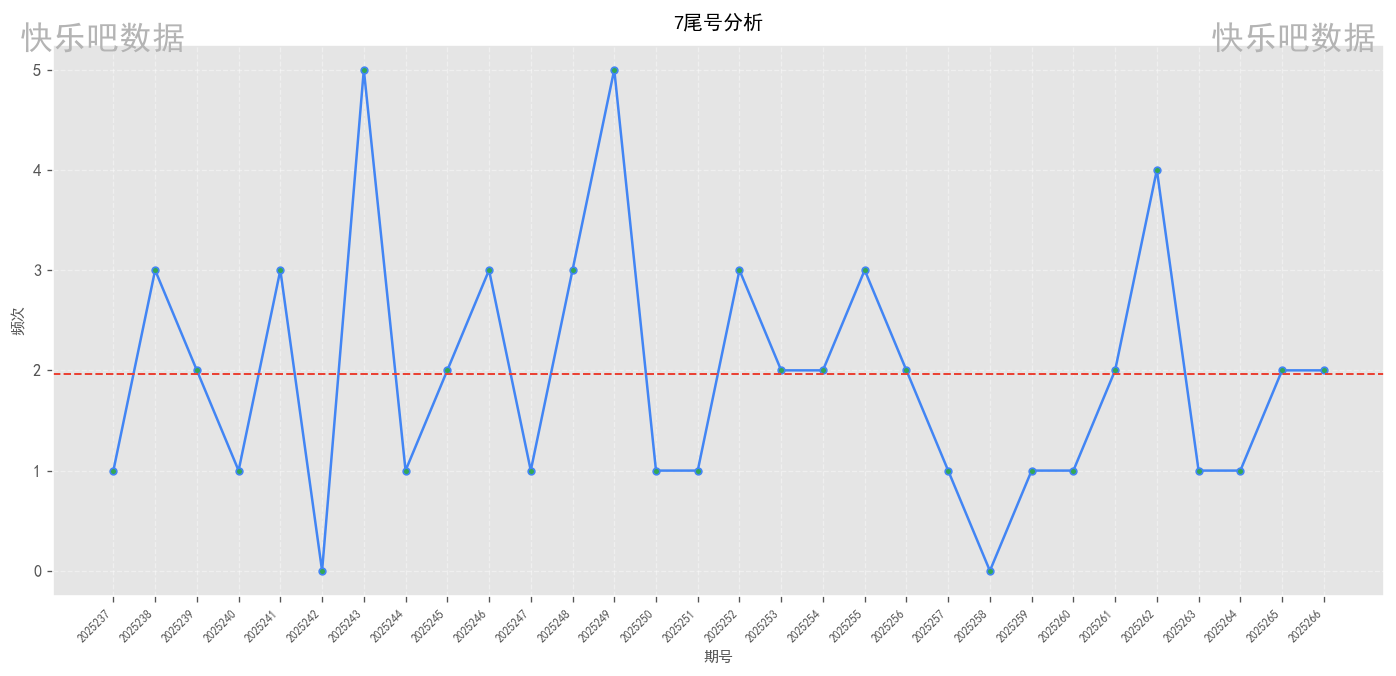
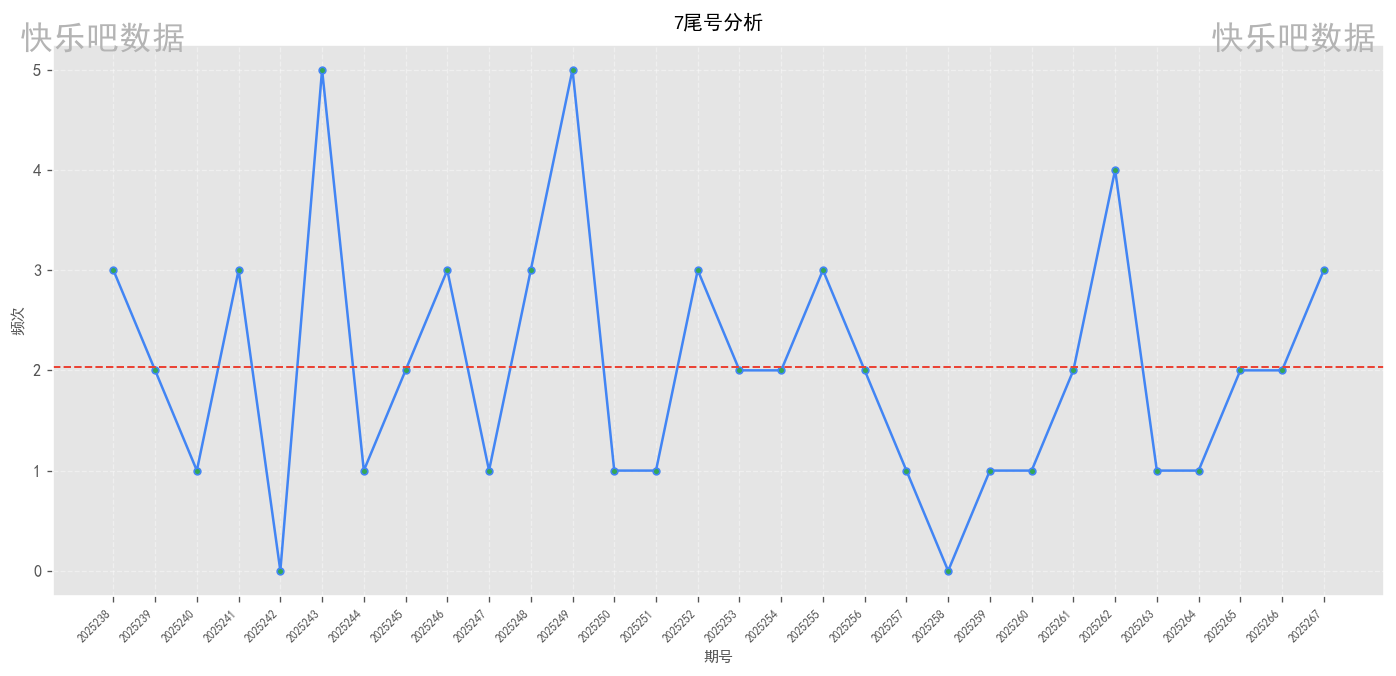
自动提交报告 20251008_2211

diff --git a/快乐8尾号分析项目/数据报告/20251008/report.html b/快乐8尾号分析项目/数据报告/20251008/report.html
@@ -440,7 +440,7 @@
                     <div class="label">尾号区间</div>
                 </div>
                 <div class="overview-card">
-                    <div class="value">2025266</div>
+                    <div class="value">2025267</div>
                     <div class="label">最新期号</div>
                 </div>
                 <div class="overview-card">
@@ -464,11 +464,11 @@
             <div class="stats-summary">
                 <div class="stat-item">
                     <span class="stat-label">历史平均</span>
-                    <span class="stat-value">2.10</span>
+                    <span class="stat-value">2.17</span>
                 </div>
                 <div class="stat-item">
                     <span class="stat-label">近期平均</span>
-                    <span class="stat-value">2.20</span>
+                    <span class="stat-value">2.00</span>
                 </div>
                 <div class="stat-item">
                     <span class="stat-label">最高频次</span>
@@ -490,7 +490,7 @@
                 </div>
                 <div class="stat-item">
                     <span class="stat-label">近期平均</span>
-                    <span class="stat-value">1.00</span>
+                    <span class="stat-value">1.20</span>
                 </div>
                 <div class="stat-item">
                     <span class="stat-label">最高频次</span>
@@ -508,7 +508,7 @@
             <div class="stats-summary">
                 <div class="stat-item">
                     <span class="stat-label">历史平均</span>
-                    <span class="stat-value">1.83</span>
+                    <span class="stat-value">1.77</span>
                 </div>
                 <div class="stat-item">
                     <span class="stat-label">近期平均</span>
@@ -530,7 +530,7 @@
             <div class="stats-summary">
                 <div class="stat-item">
                     <span class="stat-label">历史平均</span>
-                    <span class="stat-value">2.17</span>
+                    <span class="stat-value">2.03</span>
                 </div>
                 <div class="stat-item">
                     <span class="stat-label">近期平均</span>
@@ -552,11 +552,11 @@
             <div class="stats-summary">
                 <div class="stat-item">
                     <span class="stat-label">历史平均</span>
-                    <span class="stat-value">1.67</span>
+                    <span class="stat-value">1.70</span>
                 </div>
                 <div class="stat-item">
                     <span class="stat-label">近期平均</span>
-                    <span class="stat-value">2.80</span>
+                    <span class="stat-value">2.40</span>
                 </div>
                 <div class="stat-item">
                     <span class="stat-label">最高频次</span>
@@ -574,11 +574,11 @@
             <div class="stats-summary">
                 <div class="stat-item">
                     <span class="stat-label">历史平均</span>
-                    <span class="stat-value">2.47</span>
+                    <span class="stat-value">2.50</span>
                 </div>
                 <div class="stat-item">
                     <span class="stat-label">近期平均</span>
-                    <span class="stat-value">2.60</span>
+                    <span class="stat-value">3.20</span>
                 </div>
                 <div class="stat-item">
                     <span class="stat-label">最高频次</span>
@@ -596,11 +596,11 @@
             <div class="stats-summary">
                 <div class="stat-item">
                     <span class="stat-label">历史平均</span>
-                    <span class="stat-value">2.13</span>
+                    <span class="stat-value">2.03</span>
                 </div>
                 <div class="stat-item">
                     <span class="stat-label">近期平均</span>
-                    <span class="stat-value">1.60</span>
+                    <span class="stat-value">1.40</span>
                 </div>
                 <div class="stat-item">
                     <span class="stat-label">最高频次</span>
@@ -618,11 +618,11 @@
             <div class="stats-summary">
                 <div class="stat-item">
                     <span class="stat-label">历史平均</span>
-                    <span class="stat-value">1.97</span>
+                    <span class="stat-value">2.03</span>
                 </div>
                 <div class="stat-item">
                     <span class="stat-label">近期平均</span>
-                    <span class="stat-value">2.00</span>
+                    <span class="stat-value">1.80</span>
                 </div>
                 <div class="stat-item">
                     <span class="stat-label">最高频次</span>
@@ -640,11 +640,11 @@
             <div class="stats-summary">
                 <div class="stat-item">
                     <span class="stat-label">历史平均</span>
-                    <span class="stat-value">1.93</span>
+                    <span class="stat-value">1.97</span>
                 </div>
                 <div class="stat-item">
                     <span class="stat-label">近期平均</span>
-                    <span class="stat-value">2.60</span>
+                    <span class="stat-value">2.80</span>
                 </div>
                 <div class="stat-item">
                     <span class="stat-label">最高频次</span>
@@ -662,7 +662,7 @@
             <div class="stats-summary">
                 <div class="stat-item">
                     <span class="stat-label">历史平均</span>
-                    <span class="stat-value">1.67</span>
+                    <span class="stat-value">1.73</span>
                 </div>
                 <div class="stat-item">
                     <span class="stat-label">近期平均</span>
@@ -690,7 +690,7 @@
         <div class="disclaimer">
             <div class="disclaimer-title"><i class="fas fa-exclamation-circle"></i> 法律声明</div>
             <p>本分析报告基于中国福利彩票官网公开数据制作，仅供历史数据分析与参考，严禁用于赌博或任何违法违规用途。</p>
-            <p>根据中国法律，禁止向未成年人传播彩票相关信息。数据统计周期: 2025237期-2025266期 | 生成时间: 2025-10-08 22:07</p>
+            <p>根据中国法律，禁止向未成年人传播彩票相关信息。数据统计周期: 2025238期-2025267期 | 生成时间: 2025-10-08 22:11</p>
         </div>
 
         <!-- 操作按钮 -->
